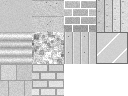
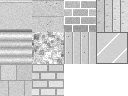
r3d: bench seats on legs, plain locker sides, walls with a skirting board
Benches and tables are a 0.62-tile seat across the middle of their row, a
tenth thick, with a pair of legs per tile. The sides of lockers and
cabinets that show no doors take a patch of the lid's colour instead of
the dark edge of the front, and side shading is softer. The plaster wall
texture gets a skirting board and a cornice line, so a plain painted wall
reads as a wall rather than a slab.

Claude-Session: https://claude.ai/code/session_01AQcqgshZ6QEXLKxwWu91Ej

Changed region(s): [[0.0, 0.2812, 0.25, 0.3438], [0.0, 0.0, 0.25, 0.0312]]

diff --git a/src/r3d_mesh.cpp b/src/r3d_mesh.cpp
@@ -133,7 +133,12 @@ shape combine( const shape &terrain, const shape &furniture )
 
 // Light from above and the south-west, with clearly different faces as isometric art shades
 // them: that contrast is what makes boxes read as solid. top N S W E
-constexpr std::array<uint8_t, 5> face_shade = { 255, 150, 212, 128, 178 };
+struct point_f {
+    float x;
+    float y;
+};
+
+constexpr std::array<uint8_t, 5> face_shade = { 255, 165, 212, 150, 185 };
 
 // All faces use the full sprite horizontally. Vertically the sprite spans one tile height starting
 // at z_base, so a shorter box shows only the lower part of it.
@@ -348,8 +353,14 @@ void emit_box( quad_sink &sink, const sprite_ref &s, int x, int y, float z0, flo
     const float sv0 = s.v0 + dv * b.side_top;
     const float sv1 = s.v0 + dv * b.side_bottom;
     const uvs_t side_uv = {{ { u0, sv0 }, { u1, sv0 }, { u1, sv1 }, { u0, sv1 } }};
-    const float edge_u0 = u1 - ( u1 - u0 ) * 0.08f;
-    const uvs_t plain_uv = {{ { edge_u0, sv0 }, { u1, sv0 }, { u1, sv1 }, { edge_u0, sv1 } }};
+    // A patch from the middle of the lid: the thing's own colour without doors or handles.
+    const float lid_v0 = s.v0 + dv * b.lid_top;
+    const float lid_v1 = s.v0 + dv * b.lid_bottom;
+    const float pu0 = u0 + ( u1 - u0 ) * 0.3f;
+    const float pu1 = u0 + ( u1 - u0 ) * 0.7f;
+    const float pv0 = lid_v0 + ( lid_v1 - lid_v0 ) * 0.35f;
+    const float pv1 = lid_v0 + ( lid_v1 - lid_v0 ) * 0.65f;
+    const uvs_t plain_uv = {{ { pu0, pv0 }, { pu1, pv0 }, { pu1, pv1 }, { pu0, pv1 } }};
     // south, west, north, east: where the front ends up after each clockwise quarter turn
     static constexpr std::array<face_bit, 4> front_after = {{ face_south, face_west, face_north, face_east }};
     const face_bit front = front_after[static_cast<size_t>( facing & 3 )];
@@ -386,28 +397,21 @@ void emit_box( quad_sink &sink, const sprite_ref &s, int x, int y, float z0, flo
     };
     sink.add( s, under, side_uv, refs[3] );
 
-    // Legs at the free corners: a corner between two sides that join a neighbouring piece (a
-    // long connected bench) has none, so only the ends of a row stand on legs.
-    constexpr float leg = 0.1f;
-    constexpr float inset = 0.06f;
-    const bool open_n = ( faces & face_north ) != 0 || fy0 > edge;
-    const bool open_s = ( faces & face_south ) != 0 || fy1 < 1.0f - edge;
-    const bool open_w = ( faces & face_west ) != 0 || fx0 > edge;
-    const bool open_e = ( faces & face_east ) != 0 || fx1 < 1.0f - edge;
-    const struct {
-        bool show;
-        float x;
-        float y;
-    } legs[] = {
-        { open_n && open_w, fx0 + inset, fy0 + inset },
-        { open_n && open_e, fx1 - inset - leg, fy0 + inset },
-        { open_s && open_w, fx0 + inset, fy1 - inset - leg },
-        { open_s && open_e, fx1 - inset - leg, fy1 - inset - leg },
-    };
-    for( const auto &l : legs ) {
-        if( !l.show ) {
-            continue;
+    // Legs: every tile of a bench or table stands on a pair of legs at the sides across its
+    // row (the row runs along x before the turn), set in from the slab's ends.
+    constexpr float leg = 0.09f;
+    constexpr float inset = 0.05f;
+    const bool across_y = ( facing & 1 ) == 0;
+    const float a0 = ( across_y ? fx0 : fy0 ) + 0.22f;
+    const float a1 = ( across_y ? fx1 : fy1 ) - 0.22f - leg;
+    const float s0 = ( across_y ? fy0 : fx0 ) + inset;
+    const float s1 = ( across_y ? fy1 : fx1 ) - inset - leg;
+    const std::array<std::array<float, 2>, 4> legs = {{
+            { a0, s0 }, { a0, s1 }, { a1, s0 }, { a1, s1 }
         }
+    };
+    for( const auto &pos : legs ) {
+        const point_f l{ across_y ? pos[0] : pos[1], across_y ? pos[1] : pos[0] };
         const float lx0 = ox + l.x;
         const float ly0 = oy + l.y;
         const float lx1 = lx0 + leg;
@@ -985,10 +989,16 @@ chunk_mesh build_chunk_mesh( const tripoint_abs_sm &pos, const submap_lookup &lo
             // A connected sprite's rotation says how it joins its neighbours, not where it faces.
             int facing = furn_subtile >= 0 ? 0 : spr.facing;
             if( fs.slab > 0.0f ) {
-                // A bench or table runs along its row, its seat across the middle of the tile.
-                const float depth = layout.y1 - layout.y0;
-                layout.y0 = ( 1.0f - depth ) * 0.5f;
-                layout.y1 = layout.y0 + depth;
+                // A bench or table runs along its row (x before the turn): a seat about 0.6 tile
+                // wide across the middle of the tile, the length of the tile when it continues
+                // next door, a little shorter when it stands alone.
+                constexpr float seat = 0.62f;
+                constexpr float lone = 0.7f;
+                const bool continues = ( joined & ( face_west | face_east | face_north | face_south ) ) != 0;
+                layout.y0 = ( 1.0f - seat ) * 0.5f;
+                layout.y1 = layout.y0 + seat;
+                layout.x0 = continues ? 0.0f : ( 1.0f - lone ) * 0.5f;
+                layout.x1 = continues ? 1.0f : layout.x0 + lone;
                 if( row_x || row_y ) {
                     facing = row_y ? 1 : 0;
                 }

diff --git a/tools/r3d_spike/make_wall_textures.py b/tools/r3d_spike/make_wall_textures.py
@@ -55,10 +55,16 @@ def fill(px, rng, base, amount):
 
 
 def plaster(px, rng):
-    fill(px, rng, (196, 186, 160), 0.025)
+    fill(px, rng, (196, 186, 160), 0.035)
     for _ in range(14):  # faint blotches
         x, y = rng.randrange(CELL), rng.randrange(CELL)
         px[x, y] = shade(px[x, y], 0.93)
+    for x in range(CELL):  # skirting board and a cornice line, so a plain wall reads as one
+        px[x, CELL - 1] = shade(px[x, CELL - 1], 0.55)
+        px[x, CELL - 2] = shade(px[x, CELL - 2], 0.65)
+        px[x, CELL - 3] = shade(px[x, CELL - 3], 0.8)
+        px[x, 1] = shade(px[x, 1], 1.12)
+        px[x, 2] = shade(px[x, 2], 0.85)
 
 
 def concrete(px, rng):

diff --git a/src/r3d_shapes.cpp b/src/r3d_shapes.cpp
@@ -16,7 +16,7 @@ constexpr float low_height = 0.28f;
 constexpr float surface_height = 0.4f;
 constexpr float default_furniture_height = 0.5f;
 constexpr float tall_furniture_height = 0.9f;
-constexpr float slab_thickness = 0.08f;
+constexpr float slab_thickness = 0.1f;
 // Floor-like furniture (rugs, carpets) sits just above the terrain floor.
 constexpr float decal_height = floor_height + 0.01f;
 } // namespace
